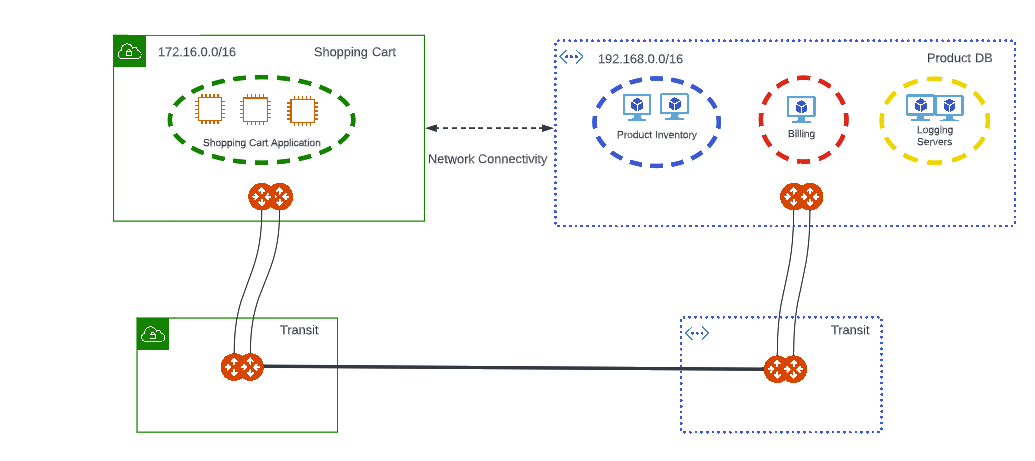
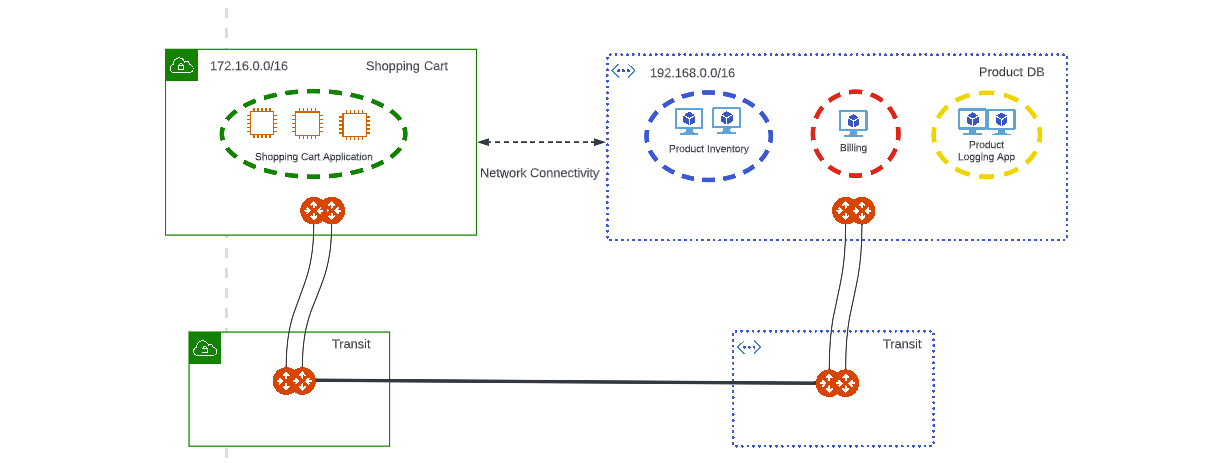
committing some more changes for jh-6.7-20895
hopefully these are the final tweaks

diff --git a/HowTos/secure_networking_microsegmentation.rst b/HowTos/secure_networking_microsegmentation.rst
@@ -7,17 +7,15 @@
 Secure Networking with Micro-Segmentation
 ========================================= 
 
-This topic will provide an overview of micro-segmentation and how it is configured. <double check how features are normally introduced>
-
-Micro-segmentation provides granular network security policy for distributed applications in the Cloud. Micro-segmentation enables network policy enforcement between application domains you define in a single cloud or across multiple clouds. Users can then configure policies between these application domains to filter traffic between the applications residing in these domains.
+Micro-segmentation provides granular network security policy for distributed applications in the Cloud. Micro-segmentation enables network policy enforcement between application domains (app domains) you define in a single cloud or across multiple clouds. Users can then configure policies between these app domains to filter traffic between the applications residing in these domains.
 
 |microseg_topology|
 
 Use cases where you might implement micro-segmentation are:
 
-- Workload isolation: in a typical tiered application, you may want to isolate tiers that do not require access to each other. For example, in a shopping portal application, there could be workloads for product inventory, billing, and logging servers. Since the shopping cart application does not need to communicate with the logging servers, this traffic should be blocked.
-- Quarantine compromised machines: You can isolate a compromised machine by placing it in its own application domain and blocking communication to that domain.
-- Network traffic monitoring: Watch network traffic between your app domains and choose to enforce policies as needed.
+- Workload isolation: in a typical tiered application, you may want to isolate tiers that do not require access to each other. For example, in a Shopping Cart application, there could be workloads for product inventory, billing, and a Product Logging app. Since the Shopping Cart application does not need to communicate with the Product Logging app, this traffic should be blocked.
+- Quarantine compromised machines: You can isolate a compromised machine by placing it in its own app domain and blocking communication to that domain.
+- Network traffic monitoring: Watch network traffic between your app domains and enforce policies as needed.
 
 
 Micro-Segmentation Components
@@ -27,7 +25,7 @@ Micro-segmentation introduces two important configuration components—-app doma
 
 App Domains
 --------------
-An app domain is a grouping of workloads, subnets, or VPC/VNets that require a uniform policy enforcement. For example, all servers running the inventory database (as per the above workload isolation use case) can form an app domain. A Cloud resource can be part of multiple app domains. 
+An app domain is a grouping of workloads, subnets, or VPC/VNets that require a uniform policy enforcement. For example, all servers running the product inventory database (as per the above workload isolation use case) can form an app domain. A Cloud resource can be part of multiple app domains. 
 
 When you create your app domains, you can classify them based on:
 
@@ -41,7 +39,7 @@ When you create your app domains, you can classify them based on:
 
 Policies
 ------------
-After creating app domains, you then create policies to define the access control to apply on the traffic between those app domains. In the above workload isolation use case, all traffic (i.e., ports and protocols) between the shopping cart application and the logging servers must be blocked (Denied). You can decide which policies to enforce, and if you want to log the actions related a policy so that the information is available in FlowIQ. These policies are enforced (if enabled) on your Spoke gateways, and are executed against the Spoke gateways in the order that they are shown in the policy list. 
+After creating app domains, you create policies to define the access control to apply on the traffic between those app domains. In the above workload isolation use case, all traffic (i.e., ports and protocols) between the ShoppingCart application and the Product Logging app must be blocked (Denied). You can decide which policies to enforce, and if you want to log the actions related a policy so that the information is available in FlowIQ. These policies are enforced (if enabled) on your Spoke gateways, and are executed against the Spoke gateways in the order that they are shown in the policy list. 
 
 Prerequisites
 -----------------
@@ -59,12 +57,10 @@ Configuring Micro-Segmentation
 
 This section describes the micro-segmentation functional area of Aviatrix CoPilot.
 
-For information about how micro-segmentation works in Aviatrix Secure Cloud Network Platform, see the discussion about secure networking with micro-segmentation in the Aviatrix product documentation. <Brenda can use this; then I'll take it out>
-
 
 Creating App Domains 
 -----------------------
-An app domain contains one or more filters to identify CSP endpoints that map to an app domain. A filter specifies resource matching criteria. Matching criteria could be a CSP tag or a resource attribute (such as account name or region) or a list of IP prefixes. All match conditions within the filter must be satisfied to be matched. A tag or resource attribute-based filter must be associated with a resource type (VPC/VNet, subnet, or VM). 
+An app domain contains one or more filters to identify CSP endpoints that map to an app domain. A filter specifies resource matching criteria. Matching criteria could be a CSP tag; a resource attribute (such as account name or region); or a list of IP prefixes. All conditions within the filter must be satisfied to be matched. A tag or resource attribute-based filter must be associated with a resource type (VPC/VNet, subnet, or VM). 
 
 1. In CoPilot, navigate to Security > Micro-Segmentation > App Domain.
 2. Click +ADD DOMAIN.
@@ -73,8 +69,8 @@ An app domain contains one or more filters to identify CSP endpoints that map to
 	a. Click +Resource Type and select VPC/VNet, Virtual Machines, or Subnet. 
 	b. Enter the matching criteria for resources that will be part of this app domain. 
 	c. All CSP tags that you have defined for your Cloud resources are present in the list for you to select from. Some examples of tags are: Backup, Controller, Aviatrix-Created-Resource, and Type.
-	e. If needed, add another resource type. Typically you will only have resources of the same type in an app domain (for example, you can have more than one VM based filter).
-	d. You can also select resource attributes (Account Name and Region) if you want to match against all resources within an account or region. The values for the selected condition(s) are populated automatically.
+	d. If needed, add another resource type. Typically you will only have resources of the same type in an app domain (for example, you can have more than one VM based filter).
+	e. You can also select resource attributes (Account Name and Region) if you want to match against all resources within an account or region. The values for the selected condition(s) are populated automatically.
 	f. After entering your resource type, you can use the Preview Resources toggle switch to see the selected resources that map to the app domain. 
 5. If you don’t want to use specific tags in your resources, enter the VPC/VNet IP addresses or CIDRs in the field provided. Traffic across CIDRs between two app domains in the same VPC/VNet is not subject to micro-segmentation policies.
 6. Click Save. The new app domain is now in the App Domain list.
@@ -94,27 +90,27 @@ An app domain traffic flow can belong to more than one policy. If this occurs, t
 
 1. In CoPilot, navigate to Security > Micro-Segmentation > Policies.
 2. On the Policies tab, click +POLICY.
-2. Enter a name for the policy.
-3. Select the Source App Domains (the app domains that originate traffic).
-4. Select the Destination App Domain (the app domains that terminate traffic).
-5. Select if the policy is allowed or denied. This determines the action to be taken on the traffic.
-6. If the Enforcement slider is On (the default), the policy is enforced in the data plane. If the Enforcement slider is off, the packets are only watched. This allows you to observe if the traffic impacted by this policy causes any inadvertent issues (such as traffic being dropped). 
-7. If the Logging slider is On, information (such as five-tuple, source/destination MAC address, etc.) related to the action is logged and made available in FlowIQ. Since logging uses a lot of disk space, be careful when enabling logging on your policies.
-8. Select the protocol used: TCP, UDP, ICMP, or Any. If you select TCP or UDP you can enter a port number or port range.
+3. Enter a name for the policy.
+4. Select the Source App Domains (the app domains that originate traffic).
+5. Select the Destination App Domain (the app domains that terminate traffic).
+6. Select if the policy is allowed or denied. This determines the action to be taken on the traffic.
+7. If the Enforcement slider is On (the default), the policy is enforced in the data plane. If the Enforcement slider is off, the packets are only watched. This allows you to observe if the traffic impacted by this policy causes any inadvertent issues (such as traffic being dropped). 
+8. If the Logging slider is On, information (such as five-tuple, source/destination MAC address, etc.) related to the action is logged and made available in FlowIQ. Since logging uses a lot of disk space, be careful when enabling logging on your policies.
+9. Select the protocol used: TCP, UDP, ICMP, or Any. If you select TCP or UDP you can enter a port number or port range.
 	
-As per the workload isolation use case above (blocking traffic between the shopping cart application and logging servers), the policy would look like this: <need to mention Product VPC>
-	- Source app domain: shopping cart application
-	- Destination app domain: logging servers
+As per the workload isolation use case above (blocking traffic between the Shopping Cart application and the Product Logging app), the policy would look like this:
+	- Source app domain: Shopping Cart application
+	- Destination app domain: Product Logging app
 	- Action: Deny
 	- Protocol: Any
 	- Ports: 0-65535 (Any)
 	- Logging: Off
 	- Enforcement: On
 
-9. Determine the policy order by selecting to insert the new policy above, below, or at the top or bottom of the policy list. If the policy is not at the top or bottom of the list, you must select the existing policy that is affected by the position of the new policy.
-10. Click Save in Drafts. 
-11. Make additional policy modifications as needed.
-12. You can then review, commit, or discard the policy changes. 
+10. Determine the policy order by selecting to insert the new policy above, below, or at the top or bottom of the policy list. If the policy is not at the top or bottom of the list, you must select the existing policy that is affected by the position of the new policy.
+11. Click Save in Drafts. 
+12. Make additional policy modifications as needed.
+13. You can then review, commit, or discard the policy changes. 
 
 Creating a Default Policy
 -------------------------
@@ -123,7 +119,7 @@ As a best zero trust security practice, you should add a deny policy that blocks
 
 Configuring the Polling Interval
 ---------------------------------
-The Aviatrix Controller periodically polls your CSPs to gather and inventory its resources. For example, if you modified your CSP tags, you may want to poll data more frequently for CoPilot to reflect those changes.
+The Aviatrix Controller periodically polls your CSPs to gather and inventory its resources. For example, if you modified your CSP tags, you may want to poll data more frequently so that CoPilot reflects those changes.
 
 In CoPilot navigate to Settings > Advanced Settings > Micro-Segmentation Settings and enter the desired polling interval in minutes (default is 60). This can be a value between 1-180.
 
